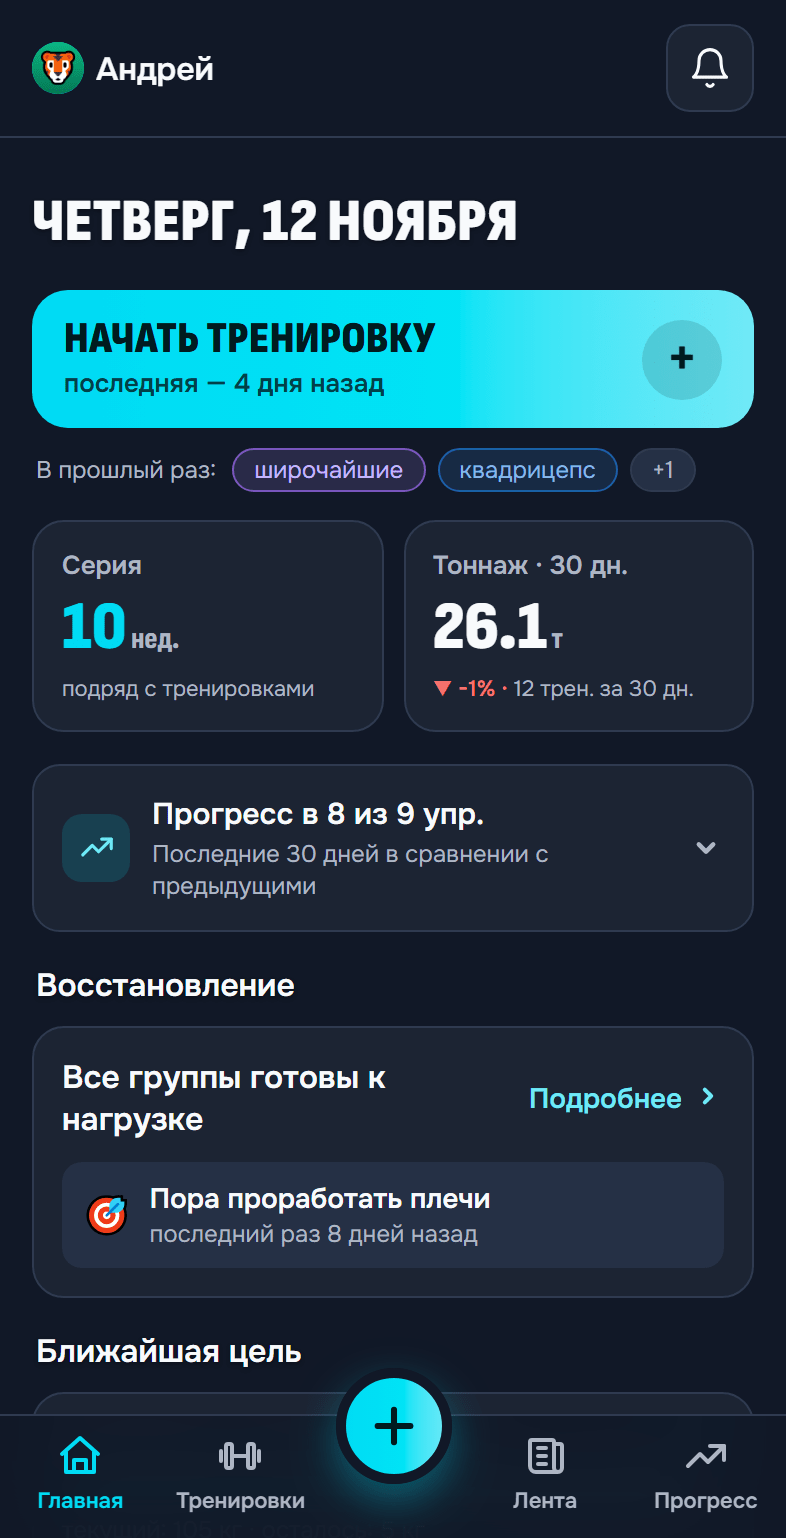
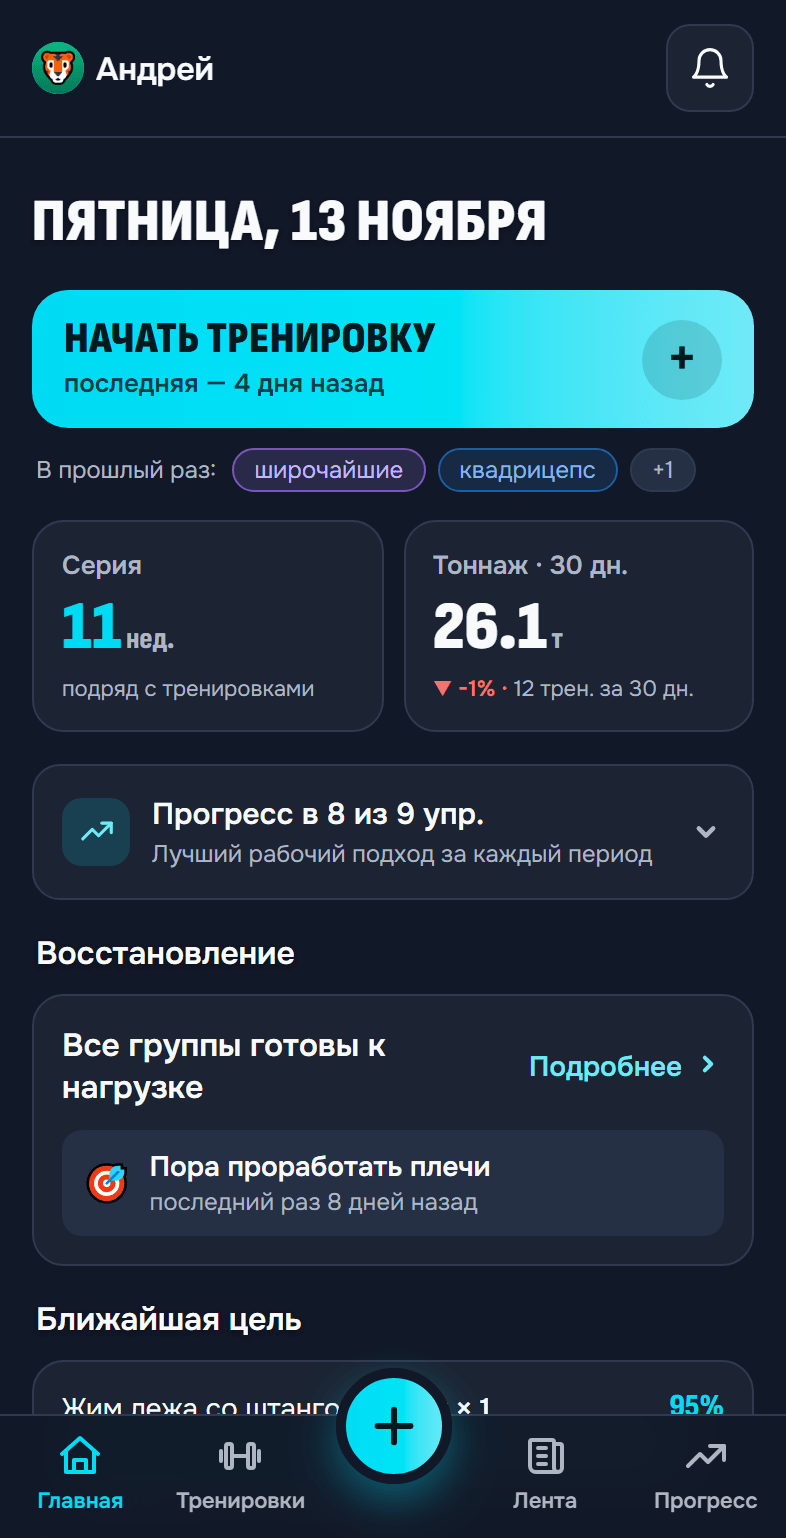
fix(home): даты сравнения и переход к графику упражнения

diff --git a/landing/quick-start/index.html b/landing/quick-start/index.html
@@ -169,7 +169,7 @@
           <p>Для просмотра есть <strong>календарь</strong> — значок справа от заголовка «Мои тренировки» или «Открыть в календаре» в блоке «Ритм» на Главной. Нажми на выделенный день: появятся мышцы и упражнения, а «Открыть тренировку» откроет ее целиком.</p>
           <p>Календарь предназначен для просмотра истории — создать новую тренировку через него нельзя.</p>
           <h2 id="s5">5. Прогресс</h2>
-          <p>На <strong>Главной</strong> строка «Прогресс в N из M упр.» сравнивает лучшие рабочие подходы за последние 30 дней с предыдущими 30 днями. В счёт идут упражнения с результатами в одинаковых единицах в обоих периодах. Нажми на строку, чтобы увидеть, где результат вырос.</p>
+          <p>На <strong>Главной</strong> строка «Прогресс в N из M упр.» сравнивает лучшие рабочие подходы за последние 30 дней с предыдущими 30 днями. В счёт идут упражнения с результатами в одинаковых единицах в обоих периодах. Раскрой строку, чтобы увидеть даты над колонками и результаты. Нажми на название упражнения, чтобы открыть его график.</p>
           <p>После первой записанной тренировки на <strong>Главной</strong> автоматически открываются <strong>«Итоги месяца»</strong> за прошлый календарный месяц: один раз на этом устройстве, после приветственных окон. Отдельное окно показывает тренировки, рабочие подходы, активные дни, до трех рекордов и основные группы мышц. Разминка и заминка в подходы и рекорды не входят. Закрой окно — предложение скроется до следующего месяца; постоянно в «Прогрессе» сводка не показывается.</p>
           <p>Кнопка <strong>«Тренировки за месяц»</strong> ведет в <strong>«Мои тренировки»</strong> и открывает календарь нужного месяца без выбора отдельного дня. После закрытия календаря список отфильтрован за этот месяц; кнопка <strong>«Сбросить»</strong> возвращает все записи. Сводка работает без интернета; до первой тренировки предложение скрыто.</p>
           <p>Повторный просмотр доступен через <strong>Профиль → «Итоги месяца»</strong>. Выбери завершенный месяц с записями в списке; кнопка тренировок откроет календарь выбранного месяца. Просмотр из профиля не возвращает сводку на Главную.</p>

diff --git a/src/screens/HomeScreen.jsx b/src/screens/HomeScreen.jsx
@@ -24,6 +24,12 @@ import { monthKey, monthLabel } from '../lib/monthlySummary.js'
 import MonthlySummary from '../components/progress/MonthlySummary.jsx'
 import '../components/progress/MonthlySummary.css'
 
+function ProgressPeriod({ dates }) {
+  const [start, end] = dates
+  const shortDate = (date) => `${date.slice(8)}.${date.slice(5, 7)}`
+  return <><time dateTime={start}>{shortDate(start)}</time>–<time dateTime={end}>{shortDate(end)}</time></>
+}
+
 // Полоска свежести в тизере — в каноническом порядке групп (стабильно), не по
 // приоритету «пора». Группы вне канона уезжают в конец.
 const canonIdx = (g) => {
@@ -246,14 +252,29 @@ export default function HomeScreen({ user, onNavigate, onNewWorkout, onOpenProgr
         <div className="menu-group home-exercise-progress" ref={progressRef}>
           <MenuRow icon="trend" kind="expand" open={progressOpen} onClick={() => setProgressOpen((open) => !open)}
             title={`Прогресс в ${summary.progress.improved.length} из ${summary.progress.total} упр.`}
-            sub="Последние 30 дней в сравнении с предыдущими" />
+            sub="Лучший рабочий подход за каждый период" />
           {progressOpen && (summary.progress.improved.length > 0 ? (
-            <ul className="home-exercise-progress-list">
-              {summary.progress.improved.map(({ id, name, metric, before, after }) => (
-                <li key={id}><span>{name}</span><strong>{fmtMetricValue(metric, before)} → {fmtMetricValue(metric, after)}</strong></li>
-              ))}
-            </ul>
-          ) : <p className="home-exercise-progress-list muted">Лучшие результаты пока не выросли.</p>)}
+            <div className="home-exercise-progress-content">
+              <table className="home-exercise-progress-table">
+                <thead><tr>
+                  <th scope="col">Упражнение</th>
+                  <th scope="col"><ProgressPeriod dates={summary.progress.previous} /></th>
+                  <th scope="col"><ProgressPeriod dates={summary.progress.latest} /></th>
+                </tr></thead>
+                <tbody>
+                  {summary.progress.improved.map(({ id, name, metric, before, after }) => (
+                    <tr key={id}>
+                      <th scope="row">
+                        {onOpenProgress ? <button type="button" onClick={() => onOpenProgress(id)}>{name}</button> : name}
+                      </th>
+                      <td>{fmtMetricValue(metric, before)}</td>
+                      <td><strong>{fmtMetricValue(metric, after)}</strong></td>
+                    </tr>
+                  ))}
+                </tbody>
+              </table>
+            </div>
+          ) : <p className="home-exercise-progress-content muted">Лучшие результаты пока не выросли.</p>)}
         </div>
       )}
 

diff --git a/src/lib/homeSummary.js b/src/lib/homeSummary.js
@@ -14,6 +14,7 @@ import { daySubTags } from './dayTags.js'
 import { normMetric, leadingValue } from './metric.js'
 import { entryExId, sortDesc, currentExerciseShapes, entryUnitMetric, mainEntries } from './entries.js'
 import { plural } from './plural.js'
+import { toDate } from './calendar.js'
 
 function localDayKey(value) {
   const d = value instanceof Date ? value : new Date(value)
@@ -147,12 +148,15 @@ function nearestGoal(goals, sorted) {
 // Предел осмысленного роста тоннажа к прошлым 30 дням, %.
 export const TONNAGE_PCT_MAX = 300
 
+const PROGRESS_DAYS = 30
+const progressDate = (day) => new Date(day * 86400000).toISOString().slice(0, 10)
+
 function exerciseProgress(sorted, today, shapes) {
   const recent = new Map()
   for (const w of sorted) {
     if (!w.performed_at) continue
-    const age = today - dayIndex(new Date(w.performed_at))
-    if (!(age >= 0 && age < 60)) continue
+    const age = today - dayIndex(toDate(w.performed_at))
+    if (!(age >= 0 && age < PROGRESS_DAYS * 2)) continue
     for (const entry of mainEntries(w)) {
       const id = entryExId(entry)
       if (!id) continue
@@ -160,17 +164,22 @@ function exerciseProgress(sorted, today, shapes) {
       const metric = entryUnitMetric(entry, shape?.metric)
       const value = leadingValue(metric, entry.sets ?? [])
       if (!(value > 0)) continue
-      if (age < 30 && !recent.has(id)) {
+      if (age < PROGRESS_DAYS && !recent.has(id)) {
         recent.set(id, { id, name: shape?.name ?? entry.exercise?.name ?? '—', metric, before: 0, after: 0 })
       }
       const result = recent.get(id)
       if (result?.metric !== metric) continue
-      const period = age < 30 ? 'after' : 'before'
+      const period = age < PROGRESS_DAYS ? 'after' : 'before'
       result[period] = Math.max(result[period], value)
     }
   }
   const compared = [...recent.values()].filter((e) => e.before > 0)
-  return { total: compared.length, improved: compared.filter((e) => e.after > e.before) }
+  return {
+    total: compared.length,
+    improved: compared.filter((e) => e.after > e.before),
+    previous: [progressDate(today - PROGRESS_DAYS * 2 + 1), progressDate(today - PROGRESS_DAYS)],
+    latest: [progressDate(today - PROGRESS_DAYS + 1), progressDate(today)],
+  }
 }
 
 export function buildHomeSummary({ workouts, goals, now = new Date() } = {}) {

diff --git a/src/index.css b/src/index.css
@@ -3454,11 +3454,17 @@ label.act.busy { opacity: .55; pointer-events: none; }
 .home-block-n .u { font-family: inherit; font-size: 15px; font-weight: 600; color: var(--muted); }
 .home-block-l { font-size: var(--fs-tiny); color: var(--muted); margin-top: 6px; line-height: 1.3; }
 .home-exercise-progress { margin-bottom: 16px; }
-.home-exercise-progress-list { list-style: none; margin: 0; padding: 0 14px 10px; }
-.home-exercise-progress-list li { display: grid; grid-template-columns: minmax(0, 1fr) max-content; align-items: baseline; gap: 12px; padding-block: 9px; }
-.home-exercise-progress-list li + li { border-top: 1px solid var(--border); }
-.home-exercise-progress-list li span { min-width: 0; overflow-wrap: anywhere; }
-.home-exercise-progress-list strong { color: var(--green); white-space: nowrap; text-align: right; }
+.home-exercise-progress-content { margin: 0; padding: 0 14px 10px; }
+.home-exercise-progress-table { width: 100%; border-collapse: collapse; }
+.home-exercise-progress-table th { font-weight: 500; text-align: left; }
+.home-exercise-progress-table thead th { padding-block: 8px; font-size: var(--fs-tiny); color: var(--muted); }
+.home-exercise-progress-table th:first-child { width: 100%; overflow-wrap: anywhere; }
+.home-exercise-progress-table th:not(:first-child), .home-exercise-progress-table td { padding-inline-start: 10px; text-align: right; white-space: nowrap; }
+.home-exercise-progress-table tbody tr { border-top: 1px solid var(--border); }
+.home-exercise-progress-table tbody th, .home-exercise-progress-table td { vertical-align: top; padding-block: 10px; }
+.home-exercise-progress-table td { color: var(--muted); }
+.home-exercise-progress-table strong { color: var(--green); }
+.home-exercise-progress-table button { min-height: 44px; margin-block: -10px; padding: 10px 0; border: 0; background: transparent; color: var(--acc-2); font: inherit; text-align: left; text-decoration: underline; text-underline-offset: 3px; overflow-wrap: anywhere; }
 .home .delta { font-weight: 600; }
 .home .delta.up { color: var(--green); }
 .home .delta.down { color: var(--red); }

diff --git a/src/screens/HomeScreen.test.jsx b/src/screens/HomeScreen.test.jsx
@@ -51,18 +51,27 @@ const readyHome = {
 
 describe('HomeScreen', () => {
   it('раскрывает сравнение лучших подходов на Главной', () => {
+    const openProgress = vi.fn()
     vi.mocked(useLiveQuery).mockReturnValue({
       ...readyHome,
-      summary: { ...readyHome.summary, progress: { total: 3, improved: [{ id: 'bench', name: 'Жим', metric: 'weight', before: 60, after: 65 }] } },
+      summary: { ...readyHome.summary, progress: {
+        total: 3, improved: [{ id: 'bench', name: 'Жим', metric: 'weight', before: 60, after: 65 }],
+        previous: ['2026-09-15', '2026-10-14'], latest: ['2026-10-15', '2026-11-13'],
+      } },
     })
-    render(<HomeScreen user={user} />)
+    render(<HomeScreen user={user} onOpenProgress={openProgress} />)
     const row = screen.getByRole('button', { name: /Прогресс в 1 из 3 упр\./ })
     expect(row).toHaveAttribute('aria-expanded', 'false')
     fireEvent.click(row)
     expect(row).toHaveAttribute('aria-expanded', 'true')
-    expect(screen.getByText('60 кг → 65 кг')).toBeVisible()
+    expect(screen.getByRole('columnheader', { name: '15.09–14.10' })).toBeVisible()
+    expect(screen.getByRole('columnheader', { name: '15.10–13.11' })).toBeVisible()
+    expect(screen.getByRole('cell', { name: '60 кг' })).toBeVisible()
+    expect(screen.getByRole('cell', { name: '65 кг' })).toBeVisible()
+    fireEvent.click(screen.getByRole('button', { name: 'Жим', exact: true }))
+    expect(openProgress).toHaveBeenCalledWith('bench')
     fireEvent.click(row)
-    expect(screen.queryByText('60 кг → 65 кг')).toBeNull()
+    expect(screen.queryByRole('cell', { name: '65 кг' })).toBeNull()
   })
 
   it('поясняет отсутствие роста при наличии сопоставимых тренировок', () => {

diff --git a/src/content/whatsNew.js b/src/content/whatsNew.js
@@ -30,6 +30,16 @@
 
 export const WHATS_NEW = [
   {
+    version: '1.12.1',
+    date: '2026-11-13',
+    headline: 'Даты сравнения на Главной',
+    main: [
+      { e: '📅', t: 'Даты над результатами показывают, какие подходы сравниваются' },
+      { e: '📈', t: 'Нажми на упражнение в сводке, чтобы открыть его график' },
+    ],
+    minor: [],
+  },
+  {
     version: '1.12.0',
     date: '2026-11-12',
     headline: 'Прогресс на Главной и полный бэкап',

diff --git a/public/push-sw.js b/public/push-sw.js
@@ -9,7 +9,7 @@
 
 // Версия этого файла (v8.9.6) = версия приложения; сверяет тест src/lib/pushIntent.test.js.
 // Отвечает на «пинг» журнала нажатий: так видно, что пуши обрабатывает свежий код.
-const PUSH_SW_VER = '1.12.0'
+const PUSH_SW_VER = '1.12.1'
 
 self.addEventListener('push', (event) => {
   let data

diff --git a/src/lib/homeSummary.test.js b/src/lib/homeSummary.test.js
@@ -50,6 +50,8 @@ describe('buildHomeSummary', () => {
     expect(buildHomeSummary({ workouts, now: NOW }).progress).toEqual({
       total: 2,
       improved: [{ id: 'bench', name: 'bench', metric: 'weight', before: 60, after: 65 }],
+      previous: ['2026-05-12', '2026-06-10'],
+      latest: ['2026-06-11', '2026-07-10'],
     })
   })
 

diff --git a/docs/quick-start.md b/docs/quick-start.md
@@ -180,7 +180,7 @@ PIN проверяет сервер. Без интернета (или если 
 
 ## 5. Прогресс
 
-На **Главной** строка «Прогресс в N из M упр.» сравнивает лучшие рабочие подходы за последние 30 дней с предыдущими 30 днями. В счёт идут упражнения с результатами в одинаковых единицах в обоих периодах. Нажми на строку, чтобы увидеть, где результат вырос.
+На **Главной** строка «Прогресс в N из M упр.» сравнивает лучшие рабочие подходы за последние 30 дней с предыдущими 30 днями. В счёт идут упражнения с результатами в одинаковых единицах в обоих периодах. Раскрой строку, чтобы увидеть даты над колонками и результаты. Нажми на название упражнения, чтобы открыть его график.
 
 После первой записанной тренировки на **Главной** автоматически открываются **«Итоги месяца»** за прошлый календарный месяц: один раз на этом устройстве, после приветственных окон. Отдельное окно показывает тренировки, рабочие подходы, активные дни, до трех рекордов и основные группы мышц. Разминка и заминка в подходы и рекорды не входят. Закрой окно — предложение скроется до следующего месяца; постоянно в «Прогрессе» сводка не показывается.
 

diff --git a/README.md b/README.md
@@ -176,4 +176,4 @@ kachalka-app можно добавить на главный экран теле
 
 ---
 
-**kachalka-app · v1.12.0**
+**kachalka-app · v1.12.1**
